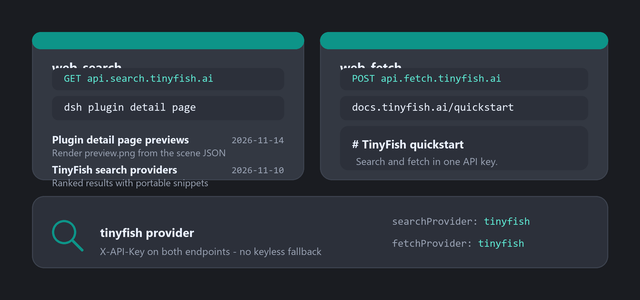
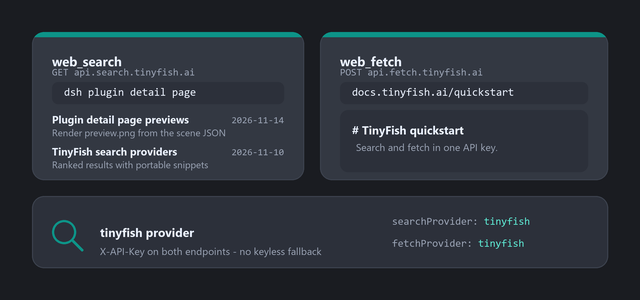
release: v1.0.13 (fix the detail image's clipped title and 17-unit accent bar)
Two shipped defects, both in the detail artwork. The accent bar's clip mask ran to y + h + radius, so a 5-unit bar rendered as a 17-unit tongue crowding the title; the clip is now the card's rounded shape intersected with the bar's own rows. And the host line was a pill whose top sat three units above the title's baseline, so the pill covered the title's lower half; it is a dim caption under the title now, which also frees the row the query pill needed. tests/preview.test.js asserts both invariants from the scene — every card row clears the row above it and stays inside the card — and pins the renderer's clip, so neither can regress silently. The test was verified against the shipped geometry before the fix.

Changed region(s): [[0.0312, 0.12, 0.9688, 0.63], [0.5312, 0.42, 0.7812, 0.57]]

diff --git a/tests/preview.test.js b/tests/preview.test.js
@@ -180,8 +180,119 @@ test('the artwork names both hosts, and says there is no keyless fallback', () =
 		assert.match(text.providerNote, /no keyless|无免密钥/, `${lang} claims a keyless fallback`)
 	}
 	// And the host lines must be drawn, not merely described in the prose.
-	assert.ok(scene.search.host !== undefined, 'the scene has no search host line')
-	assert.ok(scene.fetch.host !== undefined, 'the scene has no fetch host line')
+	assert.ok(scene.search.hostX !== undefined, 'the scene has no search host line')
+	assert.ok(scene.fetch.hostX !== undefined, 'the scene has no fetch host line')
+	assert.ok(scene.search.hostY !== undefined && scene.fetch.hostY !== undefined,
+		'the host lines have no row of their own')
+})
+
+/** The minimum clear gap between two stacked rows, in canvas units. */
+const ROW_GAP = 3
+
+/**
+ * One row's vertical extent, in canvas units.
+ *
+ * A text row anchored at `y` in a font of `size` occupies `size` units below
+ * it. This is the conservative em box — wider than the ink — which is exactly
+ * what a stacked layout has to respect.
+ *
+ * @param {string} label - what the row is, for the failure message.
+ * @param {number} top - the row's top edge.
+ * @param {number} bottom - the row's bottom edge.
+ * @returns {{ label: string, top: number, bottom: number }} the row.
+ */
+function row(label, top, bottom) {
+	return { label, top, bottom }
+}
+
+/**
+ * The rows of one capability card, split by how they relate.
+ *
+ * `stacked` rows sit one below the next, so each must clear the one above it.
+ * `inner` rows sit inside a container — the markdown body's rect — so they must
+ * clear each other and stay within it. The container itself is the first entry
+ * of `inner` and also a member of `stacked`, because it is one row in the
+ * card's own stack.
+ *
+ * @param {object} card - the scene's `search` or `fetch` card.
+ * @param {string} kind - `search` or `fetch`, choosing which rows it holds.
+ * @returns {{ stacked: object[], inner: object[] }} the rows.
+ */
+function cardRows(card, kind) {
+	const stacked = [row('accent bar', card.y, card.y + card.bar.h)]
+	stacked.push(row('title', card.titleY, card.titleY + 13))
+	if (card.hostY !== undefined) stacked.push(row('host line', card.hostY, card.hostY + 10))
+	const pill = kind === 'search' ? card.query : card.url
+	stacked.push(row(kind === 'search' ? 'query' : 'url', pill.y, pill.y + pill.h))
+	const inner = []
+	if (kind === 'search') {
+		card.results.forEach((result, index) => {
+			stacked.push(row(`result ${index + 1} title`, result.titleY, result.titleY + 10.5))
+			stacked.push(row(`result ${index + 1} snippet`, result.snippetY, result.snippetY + 9.5))
+		})
+	} else {
+		const body = row('body', card.body.y, card.body.y + card.body.h)
+		stacked.push(body)
+		inner.push(body)
+		inner.push(row('markdown title', card.mdTitleY, card.mdTitleY + 11.5))
+		inner.push(row('markdown body', card.bodyY, card.bodyY + 10.5))
+		inner.push(row('endpoints', card.endpointY, card.endpointY + 10))
+	}
+	return { stacked, inner }
+}
+
+test('every card row clears the row above it, and stays inside the card', () => {
+	// Two shipped defects lived in this arithmetic. A host pill whose top sat
+	// above the title's baseline covered the title's lower half, because the
+	// pill is drawn after the title; and a row pushed past the card's bottom
+	// edge simply vanished. Both are layout, so both are asserted from the
+	// scene rather than from the rendered pixels, which no assertion here can
+	// see.
+	const html = readFileSync(path.join(DOCS, 'preview-source.html'), 'utf8')
+	const match = /<script[^>]*id="scene"[^>]*>([\s\S]*?)<\/script>/.exec(html)
+	const scene = JSON.parse(match[1])
+	for (const [kind, card] of [['search', scene.search], ['fetch', scene.fetch]]) {
+		const { stacked, inner } = cardRows(card, kind)
+		const groups = inner.length > 1 ? [stacked, inner.slice(1)] : [stacked]
+		for (const rows of groups) {
+			for (let index = 1; index < rows.length; index++) {
+				const above = rows[index - 1]
+				const below = rows[index]
+				assert.ok(
+					below.top >= above.bottom + ROW_GAP,
+					`${kind}: ${below.label} starts at ${below.top}, only ${below.top - above.bottom} ` +
+						`below ${above.label}, which ends at ${above.bottom}`,
+				)
+			}
+		}
+		// A row inside the markdown body must also stay inside it. The container
+		// is `inner[0]`; it is a row of the card's own stack, not a row to clear.
+		const container = inner[0]
+		for (const item of inner.slice(1)) {
+			assert.ok(
+				item.bottom <= container.bottom,
+				`${kind}: ${item.label} ends at ${item.bottom}, past the body's ${container.bottom}`,
+			)
+		}
+		for (const item of stacked) {
+			assert.ok(item.top >= card.y, `${kind}: ${item.label} starts above the card`)
+			assert.ok(
+				item.bottom <= card.y + card.h,
+				`${kind}: ${item.label} ends at ${item.bottom}, past the card's ${card.y + card.h}`,
+			)
+		}
+	}
+})
+
+test('the renderer clips the accent bar to the bar, not to the card section', () => {
+	// The shipped defect: the mask ran to `y + h + radius`, which tinted every
+	// row down to the card's first full-width one and turned a 5-unit bar into
+	// a 17-unit tongue under the title. The clip is the card's rounded shape
+	// intersected with the bar's own rows.
+	const python = readFileSync(path.join(DOCS, 'render-preview.py'), 'utf8')
+	assert.ok(!/y \+ h \+ radius/.test(python), 'the accent mask still runs past the bar')
+	assert.ok(python.includes('ImageChops.multiply'), 'the accent mask no longer intersects the bar band')
+	assert.match(python, /def accent\(self, x, y, w, h, fill, radius, card_h\)/, 'accent no longer takes the card height')
 })
 
 test('the monospaced lines stay ASCII in both languages', () => {

diff --git a/docs/preview-source.html b/docs/preview-source.html
@@ -156,24 +156,24 @@
   "search": {
     "x": 32, "y": 32, "w": 272, "h": 148, "r": 12,
     "bar": { "h": 5, "fill": "#0d9488" },
-    "titleX": 52, "titleY": 58,
+    "titleX": 52, "titleY": 52,
+    "hostX": 52, "hostY": 68,
     "textX": 52,
-    "host": { "x": 52, "y": 68, "w": 232, "h": 22, "r": 6 },
-    "query": { "x": 52, "y": 96, "w": 232, "h": 24, "r": 6 },
+    "query": { "x": 52, "y": 82, "w": 232, "h": 22, "r": 6 },
     "results": [
-      { "titleY": 132, "snippetY": 146, "dateX": 284 },
-      { "titleY": 162, "snippetY": 176, "dateX": 284 }
+      { "titleY": 112, "snippetY": 126, "dateX": 284 },
+      { "titleY": 144, "snippetY": 158, "dateX": 284 }
     ]
   },
 
   "fetch": {
     "x": 320, "y": 32, "w": 288, "h": 148, "r": 12,
     "bar": { "h": 5, "fill": "#0d9488" },
-    "titleX": 340, "titleY": 58,
-    "host": { "x": 340, "y": 68, "w": 248, "h": 22, "r": 6 },
-    "url": { "x": 340, "y": 96, "w": 248, "h": 24, "r": 6 },
-    "body": { "x": 340, "y": 126, "w": 248, "h": 44, "r": 8 },
-    "mdTitleY": 136, "bodyY": 154
+    "titleX": 340, "titleY": 52,
+    "hostX": 340, "hostY": 68,
+    "url": { "x": 340, "y": 82, "w": 248, "h": 22, "r": 6 },
+    "body": { "x": 340, "y": 110, "w": 248, "h": 62, "r": 8 },
+    "mdTitleY": 122, "bodyY": 140, "endpointY": 158
   },
 
   "provider": {
@@ -247,11 +247,11 @@
     accent(S.x, S.y, S.w, S.bar.h, S.bar.fill, S.r);
     svg.append(text(S.titleX, S.titleY, T.searchTitle, 13, 600, C.text));
 
-    // The host line, in the monospaced face: it names the real search host, and
-    // both capabilities have their own, so it is drawn rather than described.
-    const H = S.host;
-    svg.append(el('rect', { x: H.x, y: H.y, width: H.w, height: H.h, rx: H.r, fill: C.cardSoft }));
-    svg.append(text(H.x + 12, H.y + H.h / 2 + 4, T.searchHost, 10.5, 400, C.accentSoft, MONO));
+    // The host line, in the monospaced face and dimmed: it names the real
+    // search host, and both capabilities have their own, so it is drawn rather
+    // than described. It is a caption under the title, not a pill of its own —
+    // a pill here would start one row above the title's baseline and cover it.
+    svg.append(text(S.hostX, S.hostY, T.searchHost, 10, 400, C.textDim, MONO));
 
     const Q = S.query;
     svg.append(el('rect', { x: Q.x, y: Q.y, width: Q.w, height: Q.h, rx: Q.r, fill: C.cardSoft }));
@@ -281,10 +281,9 @@
     svg.append(text(F.titleX, F.titleY, T.fetchTitle, 13, 600, C.text));
 
     // The other host: TinyFish serves search and fetch from different hosts, so
-    // the two cards do not share an endpoint base.
-    const FH = F.host;
-    svg.append(el('rect', { x: FH.x, y: FH.y, width: FH.w, height: FH.h, rx: FH.r, fill: C.cardSoft }));
-    svg.append(text(FH.x + 12, FH.y + FH.h / 2 + 4, T.fetchHost, 10.5, 400, C.accentSoft, MONO));
+    // the two cards do not share an endpoint base. A caption, like the search
+    // card's, so neither card covers its own title.
+    svg.append(text(F.hostX, F.hostY, T.fetchHost, 10, 400, C.textDim, MONO));
 
     const U = F.url;
     svg.append(el('rect', { x: U.x, y: U.y, width: U.w, height: U.h, rx: U.r, fill: C.cardSoft }));

diff --git a/index.js b/index.js
@@ -37,7 +37,7 @@ const TINYFISH_MAX_RECENCY_MINUTES = 5256000;
 /** TinyFish's accepted `page` upper bound (zero-based pagination). */
 const TINYFISH_MAX_PAGE = 10;
 /** Attribution header sent on every request. */
-const USER_AGENT = "dsh-web-search-tinyfish/1.0.12";
+const USER_AGENT = "dsh-web-search-tinyfish/1.0.13";
 /** Launch-environment variable naming the TinyFish API key credential. */
 const TINYFISH_API_KEY_ENV = "TINYFISH_API_KEY";
 /**

diff --git a/docs/render-preview.py b/docs/render-preview.py
@@ -42,7 +42,7 @@ import re
 import sys
 from pathlib import Path
 
-from PIL import Image, ImageDraw, ImageFont
+from PIL import Image, ImageChops, ImageDraw, ImageFont
 
 #: Rendered at this multiple of the canvas, then downsampled.
 SUPERSAMPLE = 4
@@ -156,25 +156,37 @@ class Canvas:
             size -= 0.5
         return size
 
-    def accent(self, x, y, w, h, fill, radius):
+    def accent(self, x, y, w, h, fill, radius, card_h):
         """A top accent bar clipped to the card's rounded corners.
 
         A square-cornered bar laid over a rounded card overhangs at both top
         corners, which reads as a misalignment rather than a design choice. The
-        clip is the card's own shape, so the bar follows it exactly.
+        clip is the card's own rounded shape, so the bar follows it exactly.
+
+        The clip must be narrowed to the bar's own rows as well: clipping to the
+        card's top *section* — the shape that ends `radius` below the bar — tints
+        every row down to the first full-width one, which turns a 5-unit bar
+        into a 17-unit tongue. The card's rounded shape supplies the corners; a
+        plain band supplies the height.
 
         @param x, y - the card's top-left, in canvas units.
         @param w, h - the card's width and the bar's height.
         @param fill - the bar's colour.
         @param radius - the card's corner radius, in canvas units.
+        @param card_h - the card's own height, so the clip follows its corners.
         """
-        # The clip is the card's top section: rounded at the top, square where
-        # the bar ends, so nothing below the bar is tinted.
+        # The card's rounded shape, then the bar's rows: their intersection is
+        # the bar with the card's corners and nothing else.
         mask = Image.new('L', self.image.size, 0)
         ImageDraw.Draw(mask).rounded_rectangle(
             (round(x * SUPERSAMPLE), round(y * SUPERSAMPLE),
-             round((x + w) * SUPERSAMPLE), round((y + h + radius) * SUPERSAMPLE)),
+             round((x + w) * SUPERSAMPLE), round((y + card_h) * SUPERSAMPLE)),
             radius=round(radius * SUPERSAMPLE), fill=255)
+        band = Image.new('L', self.image.size, 0)
+        ImageDraw.Draw(band).rectangle(
+            (round(x * SUPERSAMPLE), round(y * SUPERSAMPLE),
+             round((x + w) * SUPERSAMPLE), round((y + h) * SUPERSAMPLE)), fill=255)
+        mask = ImageChops.multiply(mask, band)
         self.image.paste(Image.new('RGB', self.image.size, fill), (0, 0), mask)
 
     def downsample(self) -> Image.Image:
@@ -203,17 +215,16 @@ def draw_scene(scene: dict, lang: str) -> Image.Image:
     canvas.rect(search['x'], search['y'], search['w'], search['h'], fill=colors['card'],
                 radius=search['r'], outline=colors['cardEdge'])
     canvas.accent(search['x'], search['y'], search['w'], search['bar']['h'],
-                  search['bar']['fill'], search['r'])
+                  search['bar']['fill'], search['r'], search['h'])
 
     canvas.text(search['titleX'], search['titleY'], text['searchTitle'], strong, 13, colors['text'])
 
-    # The host line, in the monospaced face: it names the real search host, and
-    # both capabilities have their own, so it is drawn rather than described.
-    host = search['host']
-    canvas.rect(host['x'], host['y'], host['w'], host['h'], fill=colors['cardSoft'],
-                radius=host['r'])
-    canvas.text(host['x'] + 12, host['y'] + host['h'] / 2, text['searchHost'],
-                'mono', 10.5, colors['accentSoft'], anchor='lm')
+    # The host line, in the monospaced face and dimmed: it names the real search
+    # host, and both capabilities have their own, so it is drawn rather than
+    # described. It is a caption under the title, not a pill of its own — a pill
+    # here would start one row above the title's baseline and cover it.
+    canvas.text(search['hostX'], search['hostY'], text['searchHost'],
+                'mono', 10, colors['textDim'])
 
     query = search['query']
     canvas.rect(query['x'], query['y'], query['w'], query['h'], fill=colors['cardSoft'],
@@ -242,17 +253,15 @@ def draw_scene(scene: dict, lang: str) -> Image.Image:
     canvas.rect(fetch['x'], fetch['y'], fetch['w'], fetch['h'], fill=colors['card'],
                 radius=fetch['r'], outline=colors['cardEdge'])
     canvas.accent(fetch['x'], fetch['y'], fetch['w'], fetch['bar']['h'],
-                  fetch['bar']['fill'], fetch['r'])
+                  fetch['bar']['fill'], fetch['r'], fetch['h'])
 
     canvas.text(fetch['titleX'], fetch['titleY'], text['fetchTitle'], strong, 13, colors['text'])
 
     # The other host: TinyFish serves search and fetch from different hosts, so
-    # the two cards do not share an endpoint base.
-    fetch_host = fetch['host']
-    canvas.rect(fetch_host['x'], fetch_host['y'], fetch_host['w'], fetch_host['h'],
-                fill=colors['cardSoft'], radius=fetch_host['r'])
-    canvas.text(fetch_host['x'] + 12, fetch_host['y'] + fetch_host['h'] / 2,
-                text['fetchHost'], 'mono', 10.5, colors['accentSoft'], anchor='lm')
+    # the two cards do not share an endpoint base. A caption, like the search
+    # card's, so neither card covers its own title.
+    canvas.text(fetch['hostX'], fetch['hostY'], text['fetchHost'],
+                'mono', 10, colors['textDim'])
 
     url = fetch['url']
     canvas.rect(url['x'], url['y'], url['w'], url['h'], fill=colors['cardSoft'], radius=url['r'])
